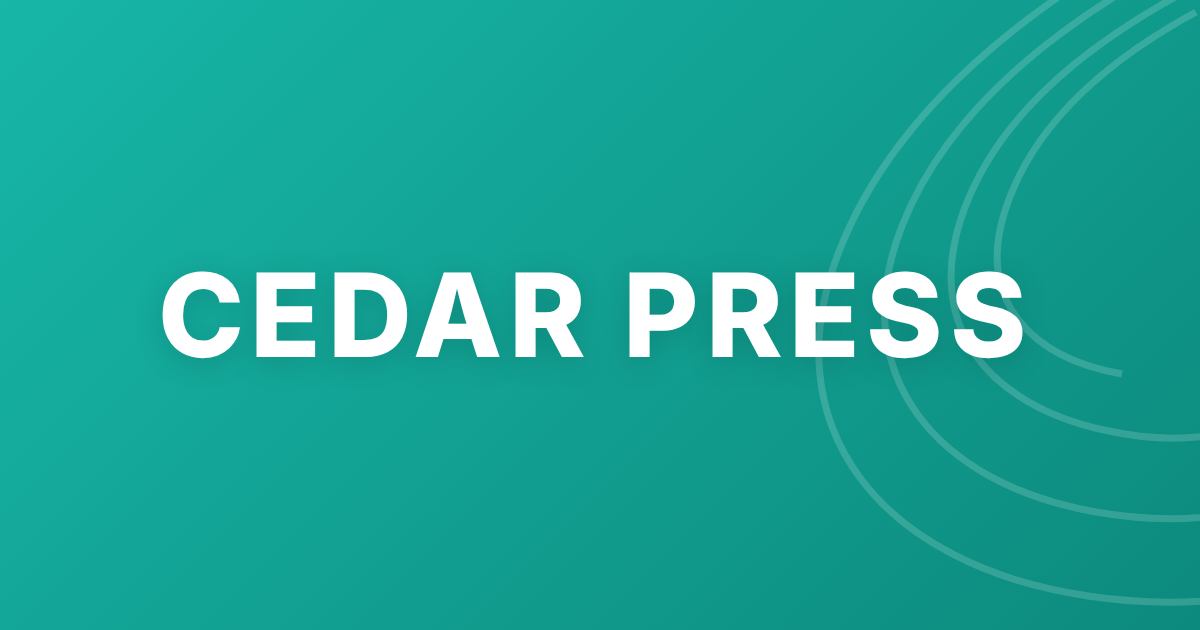
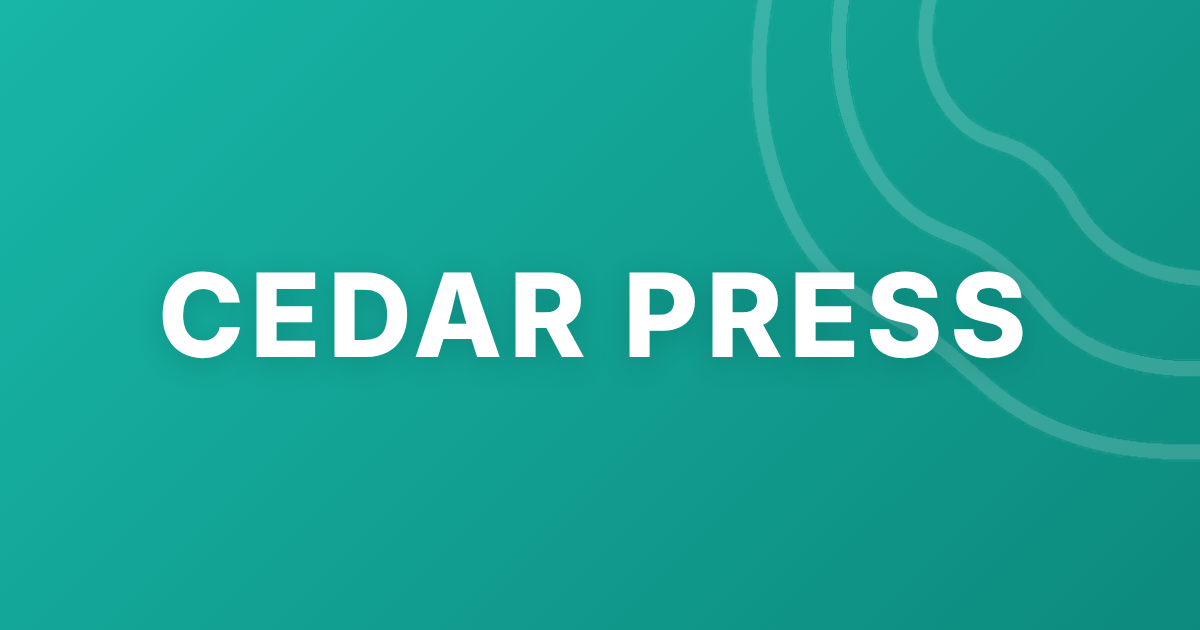
Use the actual mark
The logo was in this session the whole time, in the lumecon-website repo
under public/brand/, and I had been saying it had not arrived. It had.

Three places were wrong:

- The gate's ripple pointed at public/lumecon-mark.png, a copy of the mark
  with the gold arc and dot recoloured to teal. That is most of what makes
  it a logo rather than three rings, and it is exactly the "just the circles"
  complaint. The file is deleted rather than left around to be picked up
  again; every surface now loads the asset lumecon.ai ships, byte for byte.
- The masthead carried a bare wordmark and a comment claiming there was no
  real logo to use. There is, and the stylesheet already described the
  lockup to put it in — .cp-mast__lockup and .cp-mast__mark were sitting
  there unused from an earlier attempt.
- The link-preview card drew an approximation of the rings. The mark is
  asymmetric and the approximation was symmetric, which is the kind of wrong
  that is hard to name and easy to see. The card now composites the real
  asset, rendered white because dark green and gold disappear on teal — the
  same choice lumecon.ai's own card makes.

Sizing came from lumecon.ai rather than from taste: its lockup puts the seal
at 2.5em of the wordmark, 2em at nav scale. The existing rule here had it at
1.5em and the mark read as a grey smudge, because it is a fine-stroke drawing
and under roughly 36px the rings thin out and the gold stops being visible.
[…]

diff --git a/src/pages/grove/PressChrome.jsx b/src/pages/grove/PressChrome.jsx
@@ -11,6 +11,9 @@ import { Link, NavLink } from "react-router";
  * The reader's initials, from the address. Two letters where the address
  * has a separator to take them from, one otherwise.
  */
+/** The brand mark, served from public/. One constant so both lockups agree. */
+const MARK = "/brand/lumecon-logo-mark-transparent.png";
+
 function initialsOf(email) {
   const local = String(email ?? "").split("@")[0];
   const parts = local.split(/[._-]+/).filter(Boolean);
@@ -54,13 +57,24 @@ export function PressMast({ user, onSignOut, section = null }) {
     <a className="cp-skip" href="#cp-main">Skip to content</a>
     <header className="cp-mast">
       <div className="cp-mast__top">
-        {/* The wordmark alone until the real Cedar Press logo lands: the
-            ripple in public/ is one element of the Lumecon logo, not the
-            service's mark, and half a logo is worse than none. */}
+        {/* The mark and the wordmark as one lockup. Cedar Press is built by
+            Lumecon and carries Lumecon's mark, the same way the platform
+            does — there is no separate Cedar Press mark, and inventing one
+            would put a second identity on a product that has one.
+
+            aria-hidden with the wordmark beside it: the words are the
+            accessible name, and a screen reader announcing an image and then
+            the same words is a stutter. */}
         {home ? (
-          <span className="cp-mast__word">CEDAR PRESS</span>
+          <span className="cp-mast__lockup">
+            <img className="cp-mast__mark" src={MARK} alt="" aria-hidden="true" />
+            <span className="cp-mast__word">CEDAR PRESS</span>
+          </span>
         ) : (
-          <Link className="cp-mast__word" to={PRESS_PATH}>CEDAR PRESS</Link>
+          <Link className="cp-mast__lockup" to={PRESS_PATH}>
+            <img className="cp-mast__mark" src={MARK} alt="" aria-hidden="true" />
+            <span className="cp-mast__word">CEDAR PRESS</span>
+          </Link>
         )}
         {/* Who made it and who sells it, said plainly. "A × partnership"
             left both questions open. */}

diff --git a/src/pages/grove/PressGate.jsx b/src/pages/grove/PressGate.jsx
@@ -177,8 +177,17 @@ export default function PressGate({ user }) {
         {/* One ripple, and it is ours. The panel used to carry two nested
             contour rises that read as generic circles beside the mark; the
             mark's own asymmetric rings are the ripple now, breathing on a
-            slow cycle so the panel is alive without anything sliding around. */}
-        <img className="auth-hero__mark cp-hero2__ripple" src="/lumecon-mark.png" alt="" aria-hidden="true" />
+            slow cycle so the panel is alive without anything sliding around.
+
+            The asset is the mark lumecon.ai ships, byte for byte. The copy
+            that used to be here had the gold arc and dot recoloured to teal,
+            which is most of what makes it a logo rather than three rings. */}
+        <img
+          className="auth-hero__mark cp-hero2__ripple"
+          src="/brand/lumecon-logo-mark-transparent.png"
+          alt=""
+          aria-hidden="true"
+        />
         <div className="auth-hero__inner cp-hero2__inner">
           <span className="cp-split__brand">Cedar Press</span>
           <p className="cp-hero2__tagline">Trusted intelligence for Indian Country.</p>

diff --git a/src/styles/grove/press.css b/src/styles/grove/press.css
@@ -403,7 +403,7 @@
 /* The lockup: the mark beside the wordmark, so the service has a logo in
  * the chrome rather than only a faint ripple behind the gate. */
 .teim-rd .cp-mast__lockup { display: inline-flex; align-items: center; gap: 0.6rem; text-decoration: none; }
-.teim-rd .cp-mast__mark { width: 1.9rem; height: 1.9rem; object-fit: contain; flex: none; }
+.teim-rd .cp-mast__mark { width: 2.5rem; height: 2.5rem; object-fit: contain; flex: none; }
 .teim-rd a.cp-mast__lockup:hover .cp-mast__word { color: var(--dteal); }
 /* The page's own name where the partnership line sits on the hub, so the
  * header answers "where am I" before the page does. */
